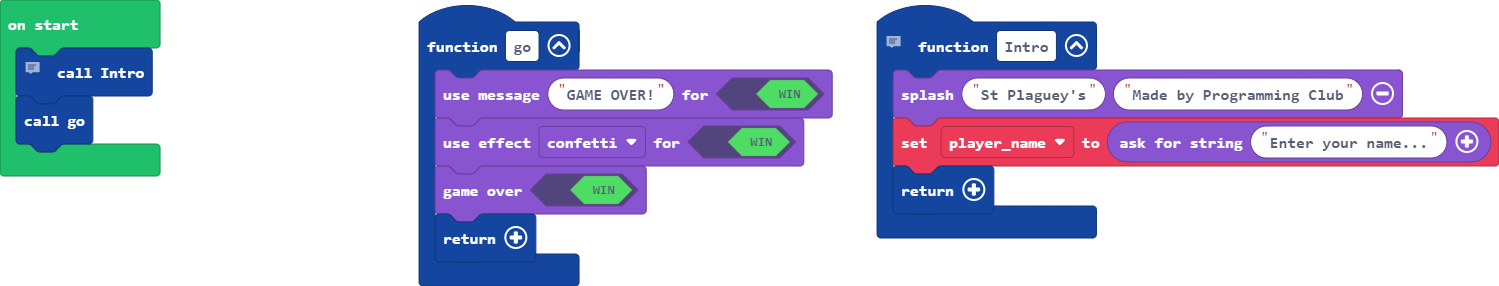
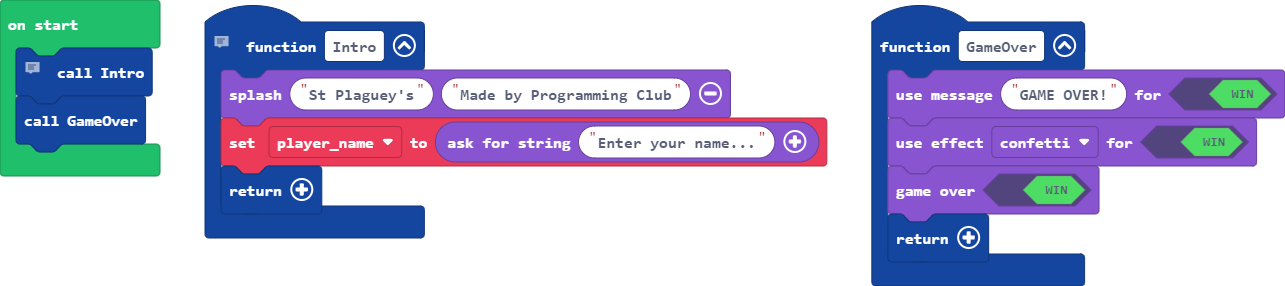
Update main.blocks, main.ts, main.py

diff --git a/main.ts b/main.ts
@@ -6,7 +6,7 @@ function Intro() {
     return
 }
 
-function go() {
+function GameOver() {
     game.setGameOverMessage(true, "GAME OVER!")
     game.setGameOverEffect(true, effects.confetti)
     game.gameOver(true)
@@ -16,4 +16,4 @@ function go() {
 let player_name = ""
 //  Game Start
 Intro()
-go()
+GameOver()

diff --git a/main.py b/main.py
@@ -4,7 +4,7 @@ def Intro():
     game.splash("St Plaguey's", "Made by Programming Club")
     player_name = game.ask_for_string("Enter your name...")
     return
-def go():
+def GameOver():
     game.set_game_over_message(True, "GAME OVER!")
     game.set_game_over_effect(True, effects.confetti)
     game.game_over(True)
@@ -12,4 +12,4 @@ def go():
 player_name = ""
 # Game Start
 Intro()
-go()
+GameOver()
